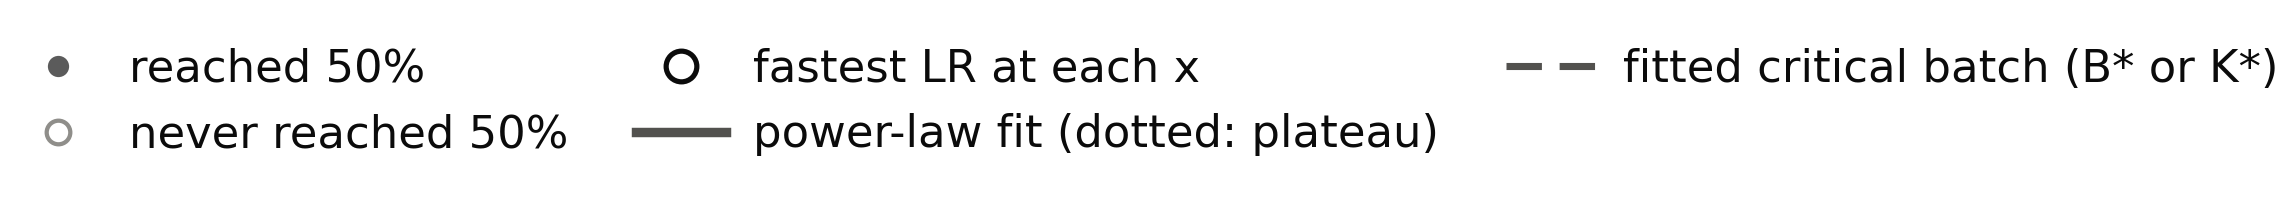
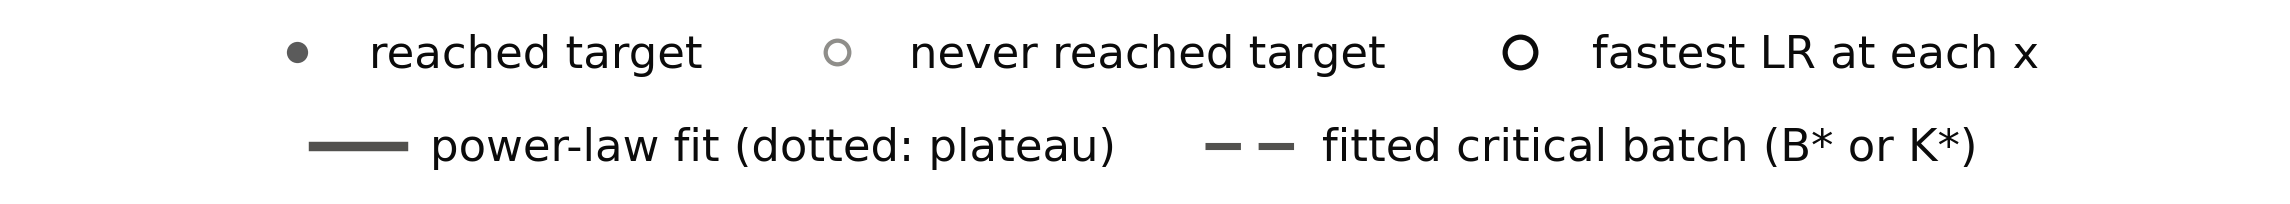
plots: LR figure legend says 'target', two centred rows
Claude-Session: https://claude.ai/code/session_01W75chJn3avZzxyPZDywWSf

diff --git a/plots/scripts/plot_steps_to_50_combined.py b/plots/scripts/plot_steps_to_50_combined.py
@@ -279,8 +279,8 @@ cb.set_label("steps to target", color=INK, fontsize=CBAR)
 cb.ax.tick_params(colors=INK, labelsize=TICK - 1, length=0); cb.outline.set_visible(False); cb.ax.invert_yaxis()
 
 legend = [
-    Line2D([], [], marker="o", ls="", ms=SZ["leg_ms"], mfc="#5b5b5b" if FIG1 else RAMP[4], mec=SURFACE, label=f"reached {PCT}%"),
-    Line2D([], [], marker="o", ls="", ms=SZ["leg_ms"], mfc="none", mec=MISSING, mew=SZ["edge_lw"], label=f"never reached {PCT}%"),
+    Line2D([], [], marker="o", ls="", ms=SZ["leg_ms"], mfc="#5b5b5b" if FIG1 else RAMP[4], mec=SURFACE, label="reached target"),
+    Line2D([], [], marker="o", ls="", ms=SZ["leg_ms"], mfc="none", mec=MISSING, mew=SZ["edge_lw"], label="never reached target"),
 ] + ([] if NO_EARLY else [Line2D([], [], marker="x", ls="", ms=SZ["leg_ms"], color=MISSING, mew=SZ["edge_lw"], label="too early to tell")]) + [
     Line2D([], [], marker="o", ls="", ms=SZ["leg_ring"], mfc="none", mec=INK, mew=SZ["ring_lw"], label="fastest LR at each x"),
     Line2D([], [], ls="-", lw=SZ["fit_lw"], color=INK2 if FIG1 else FITC, label="power-law fit (dotted: plateau)" if plateau_b else "power-law fit"),
@@ -299,7 +299,11 @@ if SPLIT:
         print("wrote", f"{stem}_{tag}.png")
     # legend strip at the full line width (W), so its type comes out at the same size as the panels; not cropped, to keep that scale
     figL = plt.figure(figsize=(W, SZ["strip_h"]), facecolor=SURFACE)
-    figL.legend(handles=legend, loc="center", ncol=3, frameon=False, fontsize=LEGEND, labelcolor=INK, handletextpad=0.6, columnspacing=1.5, borderaxespad=0.0)
+    # two rows, each centred on its own (one legend per row), so a short second row does not leave the strip lopsided
+    half = (len(legend) + 1) // 2
+    for rows_, y in ((legend[:half], 0.73), (legend[half:], 0.27)):
+        figL.legend(handles=rows_, loc="center", bbox_to_anchor=(0.5, y), ncol=len(rows_), frameon=False, fontsize=LEGEND, labelcolor=INK,
+                    handletextpad=0.6, columnspacing=2.0, borderaxespad=0.0)
     figL.savefig(f"{stem}_legend.png", dpi=170, facecolor=SURFACE)
     figL.savefig(os.path.join(pdf_dir, os.path.basename(stem) + "_legend.pdf"), facecolor=SURFACE)
     print("wrote", f"{stem}_legend.png")
